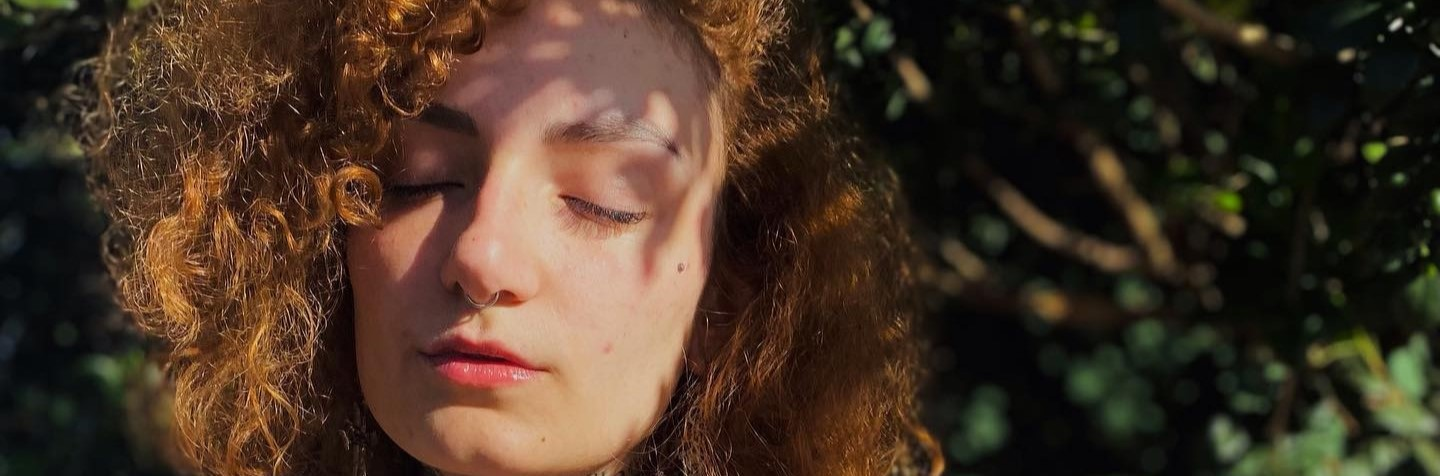
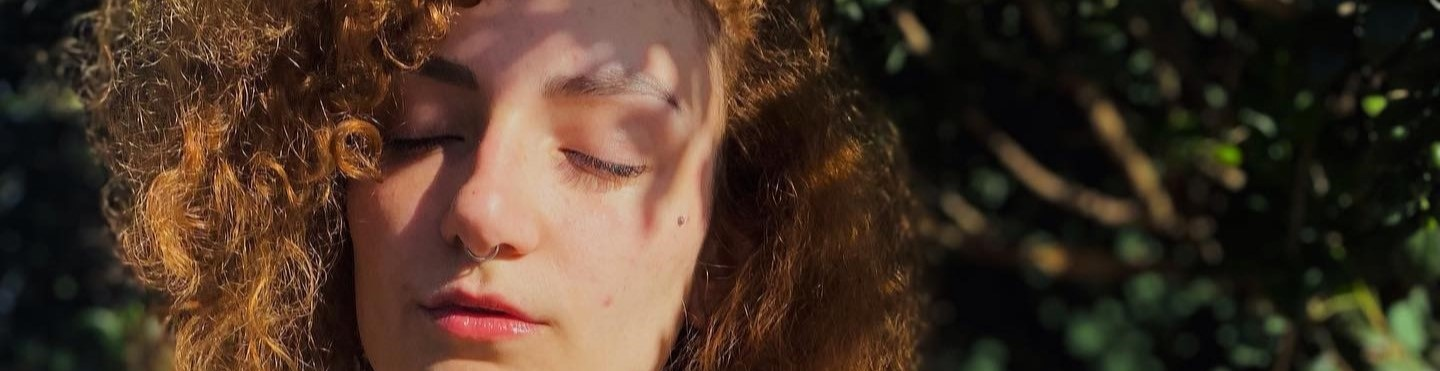
update

diff --git a/galeria.html b/galeria.html
@@ -28,9 +28,7 @@
   </header>
 
   <div class="divbody">
-
     <main class="maingallery">
-
       <section class="gallery">
         <img src="Images/Galeria (11)-min.JPG" class="gallery-img">
         <img src="Images/Galeria (10)-min.JPG" class="gallery-img">
@@ -52,10 +50,8 @@
         <img src="Images/gal (9).jpg" class="gallery-img">
         <img src="Images/IMG_3856-min.jpg" class="gallery-img">
       </section>
-
     </main>
-    <button id="prevButton" class="nav-button">&#9664;</button>
-    <button id="nextButton" class="nav-button">&#9654;</button>
+
     <footer>
       <div class="footer">
         <div class="social">
@@ -63,91 +59,117 @@
           <p>Júlia Molina</p>
           <p>julia.tattoo.studio@gmail.com</p>
           <p>Telefone: (16) 99423-2463</p>
-
         </div>
         <div class="address">
           <p>Endereço: Rua Uruguai, 1245 </p>
           <p>Jardim Consolação</p>
           <p>Franca</p>
           <p>São Paulo</p>
-
         </div>
       </div>
     </footer>
   </div>
-  <script>
-    document.addEventListener('DOMContentLoaded', function () {
-      var galleryImages = document.querySelectorAll('.gallery-img');
-      var currentIndex = 0;
-
-      // Adiciona botões de navegação
-      var prevButton = document.getElementById('prevButton');
-      var nextButton = document.getElementById('nextButton');
-
-      prevButton.addEventListener('click', function () {
-        navigate(-1);
-      });
-
-      nextButton.addEventListener('click', function () {
-        navigate(1);
-      });
-
-      // Adiciona detecção de teclado
-      document.addEventListener('keydown', function (event) {
-        if (event.key === 'ArrowLeft') {
-          navigate(-1);
-        } else if (event.key === 'ArrowRight') {
-          navigate(1);
-        }
-      });
-
-      function navigate(direction) {
-        currentIndex += direction;
-
-        // Verifica limites para evitar índices inválidos
-        if (currentIndex < 0) {
-          currentIndex = galleryImages.length - 1;
-        } else if (currentIndex >= galleryImages.length) {
-          currentIndex = 0;
-        }
-
-        updateGallery();
-      }
-
-      function updateGallery() {
-        var fullscreenDiv = document.querySelector('.fullscreen');
-        if (fullscreenDiv) {
-          fullscreenDiv.removeChild(fullscreenDiv.firstChild);
-
-          var fullscreenImg = document.createElement('img');
-          fullscreenImg.src = galleryImages[currentIndex].src;
-
-          fullscreenDiv.appendChild(fullscreenImg);
-        }
-      }
-
-      galleryImages.forEach(function (img, index) {
-        img.addEventListener('click', function () {
-          var fullscreenDiv = document.createElement('div');
-          fullscreenDiv.classList.add('fullscreen');
-
-          var fullscreenImg = document.createElement('img');
-          fullscreenImg.src = img.src;
-
-          fullscreenDiv.appendChild(fullscreenImg);
-
-          document.body.appendChild(fullscreenDiv);
-
-          fullscreenDiv.addEventListener('click', function () {
-            document.body.removeChild(fullscreenDiv);
+  <!DOCTYPE html>
+  <html lang="pt-br">
+  
+  <head>
+    <meta charset="UTF-8">
+    <meta name="viewport" content="width=device-width, initial-scale=1.0">
+    <title>Ju Tattoo</title>
+    <link rel="stylesheet" href="style.css">
+    <link rel="preconnect" href="https://fonts.googleapis.com">
+    <link rel="preconnect" href="https://fonts.gstatic.com" crossorigin>
+    <link href="https://fonts.googleapis.com/css2?family=Montserrat:ital,wght@1,600&display=swap" rel="stylesheet">
+    <link rel="shortcut icon" href="Images/favicon.ico" type="image/x-icon">
+  </head>
+  
+  <body class="bodygallery">
+    <header class="headerindex">
+      <img src="Images/logocerto.png" class="logo">
+      <nav>
+        <ul class="lista_cabecalho">
+          <li><a href="index.html"><b></b>Home</a></li>
+          <li><a href="galeria.html">Galeria</a> </li>
+          <li><a href="disponiveis.html">Disponíveis</a> </li>
+          <li><a href="orçamentos.html">Orçamentos</a></li>
+          <li><a href="historia.html">Minha História</a></li>
+          <li><a href="faq.html">FAQ</a></li>
+        </ul>
+      </nav>
+    </header>
+  
+    <div class="divbody">
+      <main class="maingallery">
+        <section class="gallery">
+          <img src="Images/Galeria (11)-min.JPG" class="gallery-img">
+          <img src="Images/Galeria (10)-min.JPG" class="gallery-img">
+          <img src="Images/Galeria (5)-min.JPG" class="gallery-img">
+          <img src="Images/Galeria (3)-min.JPG" class="gallery-img">
+          <img src="Images/Galeria (2)-min.JPG" class="gallery-img">
+          <img src="Images/Galeria (9)-min.JPG" class="gallery-img">
+          <img src="Images/galeria.JPG" class="gallery-img">
+          <img src="Images/Galeria (6)-min.JPG" class="gallery-img">
+          <img src="Images/Galeria (7)-min.JPG" class="gallery-img">
+          <img src="Images/gal (1).jpg" class="gallery-img">
+          <img src="Images/gal (2).jpg" class="gallery-img">
+          <img src="Images/gal (3).jpg" class="gallery-img">
+          <img src="Images/gal (4).jpg" class="gallery-img">
+          <img src="Images/gal (5).jpg" class="gallery-img">
+          <img src="Images/gal (6).jpg" class="gallery-img">
+          <img src="Images/gal (7).jpg" class="gallery-img">
+          <img src="Images/gal (8).jpg" class="gallery-img">
+          <img src="Images/gal (9).jpg" class="gallery-img">
+          <img src="Images/IMG_3856-min.jpg" class="gallery-img">
+        </section>
+      </main>
+  
+      <footer>
+        <div class="footer">
+          <div class="social">
+            <p>@jutattoo.ink</p>
+            <p>Júlia Molina</p>
+            <p>julia.tattoo.studio@gmail.com</p>
+            <p>Telefone: (16) 99423-2463</p>
+          </div>
+          <div class="address">
+            <p>Endereço: Rua Uruguai, 1245 </p>
+            <p>Jardim Consolação</p>
+            <p>Franca</p>
+            <p>São Paulo</p>
+          </div>
+        </div>
+      </footer>
+    </div>
+    <script>
+      document.addEventListener('DOMContentLoaded', function () {
+        var galleryImages = document.querySelectorAll('.gallery-img');
+        var currentIndex = 0;
+  
+        galleryImages.forEach(function (img, index) {
+          img.addEventListener('click', function () {
+            var fullscreenDiv = document.createElement('div');
+            fullscreenDiv.classList.add('fullscreen');
+  
+            var fullscreenImg = document.createElement('img');
+            fullscreenImg.src = img.src;
+  
+            fullscreenDiv.appendChild(fullscreenImg);
+  
+            document.body.appendChild(fullscreenDiv);
+  
+            fullscreenDiv.addEventListener('click', function () {
+              document.body.removeChild(fullscreenDiv);
+            });
+  
+            currentIndex = index;
           });
-
-          currentIndex = index;
         });
       });
-    });
-  </script>
-
+    </script>
+  </body>
+  
+  </html>
+  
 </body>
 
 </html>

diff --git a/historia.html b/historia.html
@@ -39,29 +39,39 @@
           dos meus clientes. A busca incessante por alcançar e desenvolver um estilo único sempre foi meu objetivo
           principal. Minha jornada começou em Ituiutaba, MG, e desde então, atravessei fronteiras, deixando minha marca
           na Bahia
-          antes de finalmente encontrar meu lar em Franca. Cada local que passei contribuiu para o meu crescimento como
-          artista, adicionando uma camada única à minha abordagem.</p>
+          antes de finalmente encontrar meu lar em Franca. </p>
       </div>
       <div class="container2">
-        <p>A tatuagem não é apenas uma profissão para mim; é uma paixão que me consumiu desde o momento em que a
+        <p> Cada local que passei contribuiu para o meu crescimento como
+          artista, adicionando uma camada única à minha abordagem. A tatuagem não é apenas uma profissão para mim; é uma paixão que me consumiu desde o momento em que a
           descobri. Abandonei tudo para seguir esse chamado artístico, e desde então, nunca olhei para trás. A tatuagem
           tornou-se a linguagem pela qual expresso meu amor pela arte, mesclando traços marcados e delicados, sempre com
           a essência distintiva do blackwork.
 
-          Desenhar tem sido uma parte intrínseca da minha identidade desde a infância, e a arte, para mim, é a forma
-          mais pura de amor. Cada obra é uma manifestação cuidadosa e respeitosa do meu apreço pela expressão artística.
-          Na tatuagem, encontrei minha bússola criativa, orientando-me e impulsionando-me a cada sessão.</p>
+          </p>
         <img src="Images/juhist1.jpg">
       </div>
       <div class="container3">
         <img src="Images/juhist2.jpg">
-        <p>A arte, para mim, é uma libertação diária. Cada traço, cada linha, é uma extensão da minha alma, uma
+        <p>Desenhar tem sido uma parte intrínseca da minha identidade desde a infância, e a arte, para mim, é a forma
+          mais pura de amor. Cada obra é uma manifestação cuidadosa e respeitosa do meu apreço pela expressão artística.
+          Na tatuagem, encontrei minha bússola criativa, orientando-me e impulsionando-me a cada sessão.
+          A arte, para mim, é uma libertação diária. Cada traço, cada linha, é uma extensão da minha alma, uma
           narrativa visual que conta histórias sem palavras. A tatuagem, em particular, destaca-se como a forma mais
           viva de expressão, onde a pele se torna a tela e as emoções são imortalizadas em tinta.
 
-          Assim, minha jornada na tatuagem não é apenas uma carreira; é um compromisso contínuo com a busca da beleza,
+           </p>
+      </div>
+
+      <div class="container4">
+        
+        <p>Assim, minha jornada na tatuagem não é apenas uma carreira; é um compromisso contínuo com a busca da beleza,
+          da autenticidade e da liberdade artística.Cada dia é uma nova oportunidade de criar, de se conectar com as
+          histórias daqueles que confiam em mim para deixar uma marca duradoura em seus corpos.Assim, minha jornada na tatuagem não é apenas uma carreira; é um compromisso contínuo com a busca da beleza,
           da autenticidade e da liberdade artística. Cada dia é uma nova oportunidade de criar, de se conectar com as
           histórias daqueles que confiam em mim para deixar uma marca duradoura em seus corpos.</p>
+          <img src="Images/Logo.JPG">
+
       </div>
 
     </div>

diff --git a/style.css b/style.css
@@ -127,6 +127,8 @@ header {
 html,
 body {
     margin: 0;
+    font-family: 'Montserrat', sans-serif;
+
 }
 
 body {
@@ -151,7 +153,7 @@ body {
 .lista_cabecalho li {
     display: inline-block;
     list-style: none;
-    margin-right: 40px;
+    margin-right: 50px;
     align-items: center;
     transition: transform 0.2s;
     color: white;
@@ -175,7 +177,7 @@ body {
 .logo {
     height: 70px;
     border-radius: 100%;
-    margin-left: 10px;
+    margin-left: 20px;
 
 }
 
@@ -274,6 +276,25 @@ body {
 
 }
 
+.butgaleria a,
+.butagenda a,
+.butdisponiveis a,
+.buthistoria a {
+    text-decoration: none;
+    color: white;
+    display: block;
+    width: 100%;
+    height: 100%;
+}
+
+.butgaleria a,
+.butagenda a,
+.butdisponiveis a,
+.buthistoria a :hover{
+    color: #9d6b2a;
+}
+
+
 .butgaleria:hover,
 .butagenda:hover,
 .butdisponiveis:hover {
@@ -282,11 +303,10 @@ body {
 }
 
 footer {
-    background: rgba(0, 0, 0, 0.8);
     color: white;
     padding: 5px;
     text-align: center;
-    background: linear-gradient(to bottom, rgba(0, 0, 0, 0.), rgba(49, 49, 49, 0.8));
+    background: linear-gradient(to right, #252525, #474646);
 }
 
 .footer {
@@ -330,8 +350,8 @@ footer {
     top: 50%;
     left: 50%;
     transform: translate(-50%, -50%);
-    padding: 30px 80px;
-    background: rgba(0, 0, 0, 0.7);
+    padding: 40px 80px;
+    background: rgba(0, 0, 0, 0.3);
     border: solid 1px transparent;
     font-size: 30px;
     border-radius: 25px;
@@ -491,10 +511,17 @@ a:visited {
     height: 200px;
 }
 
+.container4 {
+    display: flex;
+    align-items: center;
+}
+
+
+
 .divcontainer {
 
     margin: 85px;
-    font-size: 20px;
+    font-size: 5px;
     padding: 0px 40px 0px 40px;
 
 
@@ -511,8 +538,11 @@ a:visited {
 
 
 .divcontainer p {
-    font-size: 25px;
+    font-size: 21px;
+    color: aliceblue;
     font-weight: 100;
+    text-shadow: 0.2em 0.2em 0.2em black;
+
 }
 
 .escrito {
@@ -546,4 +576,8 @@ a:visited {
 
 .divbody {
     margin-top: 75px;
+}
+
+.bodyhistoria{
+    background: linear-gradient(to right, #333, #666);
 }

diff --git a/index.html b/index.html
@@ -58,7 +58,7 @@
         </section>
         <section>
             <div class="divhistoria">
-                <img src="Images/historia3.jpg">
+                <img src="Images/historia2.jpg">
                 <button class="buthistoria"><a class="butlink" href="historia.html">Minha história</a></button>
             </div>
             <div>
